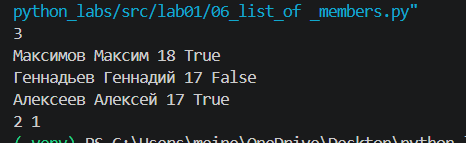
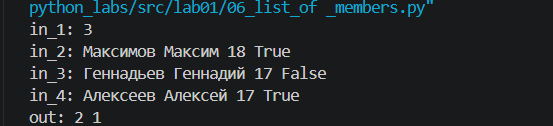
исправление ошибок

diff --git a/src/lab01/06_list_of _members.py b/src/lab01/06_list_of _members.py
@@ -1,11 +1,14 @@
-n = int(input())
+n = int(input('in_1: '))
 
 count_och = 0
 
+cin = 1
+
 for i in range(n):
-    member = input()
+    cin += 1
+    member = input(f'in_{cin}: ')
     a, b, c, d = member.split()
     if d == 'True':
         count_och += 1
 
-print(count_och, n - count_och)
+print(f'out: {count_och} {n - count_och}')
